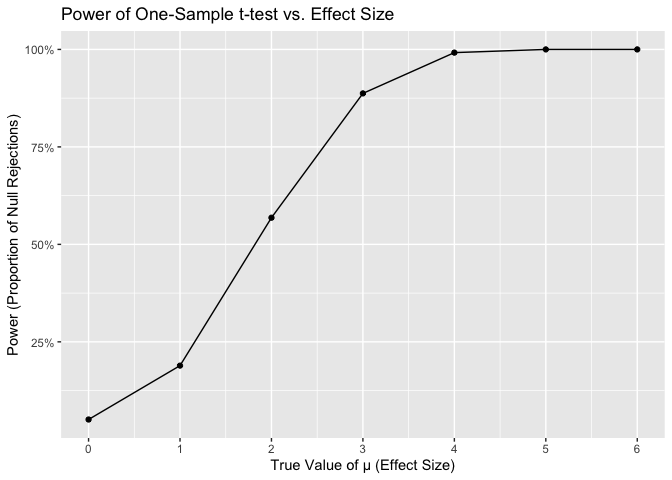
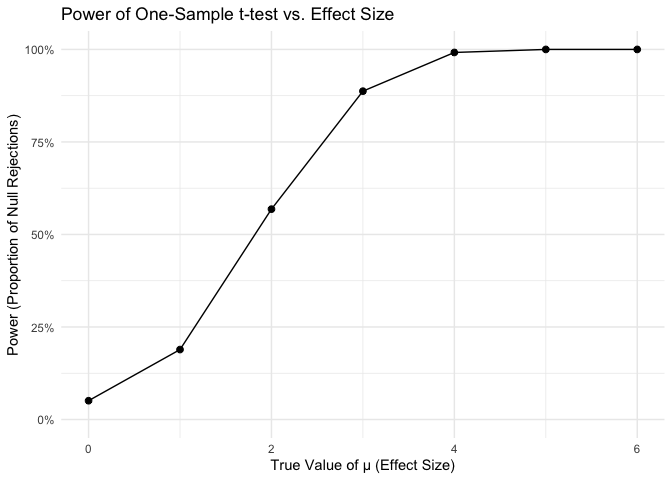
answered all questions and made changes to problem2 question1

diff --git a/p8105_hw5_lg3450.md b/p8105_hw5_lg3450.md
@@ -28,8 +28,7 @@ check_birthday = function(n) {
   birthdays = sample(1:365, size = n, replace = TRUE)
   #logic: if length < n, duplication appears
   repeated_bthd = length(unique(birthdays)) < n
-  repeated_bthd
-}
+  repeated_bthd}
 ```
 
 - Q1.2: Next, run this function 10000 times for each group size between
@@ -94,89 +93,57 @@ rapidly converges toward certainty, reaching 97% by a group size of 50.
 
 # Problem2
 
-**When designing an experiment or analysis, a common question is whether
-it is likely that a true effect will be detected – put differently,
-whether a false null hypothesis will be rejected. The probability that a
-false null hypothesis is rejected is referred to as power, and it
-depends on several factors, including: the sample size; the effect size;
-and the error variance. In this problem, you will conduct a simulation
-to explore power in a one-sample t-test.**
-
-First set the following design elements: Fix n = 30, fix sigma = 5. Set
-$\mu\ = 0.Generate 5000 datasets from the model X∼Normal[$, sigma\].
-
-For each dataset, save \$^ and the p-value arising from a test of H:
-\$ = 0 using alpha = 0.05. Hint: to obtain the estimate aand p-value,
-using broom::tidat to clean the output of t.test.
-
-Repeat the above for \$ = {1,2,3,4,5,6}, and complete the following:
-
 - Q2.1: Make a plot showing the proportion of times the null was
   rejected (the power of the test) on the y axis and the true value of
-  \$ on the x axis. Describe the association between effect size and
+  mu on the x axis. Describe the association between effect size and
   power.
 
 ``` r
 set.seed(1)
 
-run_ttest_sim = function(n_val, mu_val, sigma_val) {
-  sim_data = rnorm(n = n_val, mean = mu_val, sd = sigma_val)
-  tidy_result = broom::tidy(t.test(sim_data, mu = 0))
-  tibble(
-    mu_hat = tidy_result$estimate,
-    p_value = tidy_result$p.value)
-}
-
+n = 30
+sigma = 5
+mu_values = 0:6
 n_sims = 5000
-n_val = 30
-sigma_val = 5
+alpha = 0.05
 
-power_results =
-  expand_grid(
-    true_mu = 0:6, 
-    iter = 1:n_sims) |>
-  mutate(
-    results = map(true_mu, 
-                  \(mu) run_ttest_sim(n_val = n_val, 
-                                      mu_val = mu, 
-                                      sigma_val = sigma_val))) |>
-  unnest(results) |>
-  group_by(true_mu) |>
-  summarize(
-    power = mean(p_value < 0.05))
+run_one = function(mu) {
+ x = rnorm(n, mean = mu, sd = sigma)
+ t_out = t.test(x, mu = 0) |> tidy()
+ tibble(
+  true_mu = mu,
+  mu_hat = as.numeric(t_out$estimate),
+  p_value = t_out$p.value)}
+
+#run all simulations for mu = 0,1,2,3,4,5,6
+sim_results =
+ expand_grid(true_mu = mu_values, iter = 1:n_sims) |>
+ mutate(res = map(true_mu, run_one)) |>
+ select(res) |>
+ unnest(res) |>
+ mutate(reject = p_value < alpha)
+
+power_df =
+ sim_results |>
+ group_by(true_mu) |>
+ summarize(power = mean(reject))
 
 power_plot =
-  power_results |>
-  ggplot(aes(x = true_mu, y = power)) +
-  geom_point() +
-  geom_path() + 
-  labs(
-    title = "Power of One-Sample t-test vs. Effect Size",
-    x = "True Value of μ (Effect Size)",
-    y = "Power (Proportion of Null Rejections)"
-  ) +
-  scale_y_continuous(labels = percent) +
-  scale_x_continuous(breaks = 0:6) 
+ power_df |>
+ ggplot(aes(x = true_mu, y = power)) +
+ geom_point(size = 2) +
+ geom_line() +
+ scale_y_continuous(labels = percent, limits = c(0, 1)) +
+ labs(
+  title = "Power of One-Sample t-test vs. Effect Size",
+  x = "True Value of μ (Effect Size)",
+  y = "Power (Proportion of Null Rejections)") +
+ theme_minimal()
 
 power_plot
 ```
 
 ![](p8105_hw5_lg3450_files/figure-gfm/unnamed-chunk-5-1.png)<!-- -->
-
-``` r
-power_results
-```
-
-    ## # A tibble: 7 × 2
-    ##   true_mu  power
-    ##     <int>  <dbl>
-    ## 1       0 0.0508
-    ## 2       1 0.189 
-    ## 3       2 0.568 
-    ## 4       3 0.887 
-    ## 5       4 0.992 
-    ## 6       5 1     
-    ## 7       6 1
 
 Based on the plot, the association between and power is strong,
 positive, and non-linear. When the effect size is 0 (namely the null
@@ -186,8 +153,57 @@ the effect) rises rapidly. The power is low for a small effect size, but
 approaches 100% for large effect sizes. In short, the larger the true
 effect, the more likely the test is to detect it.
 
-- Q2.2: Make a plot showing the average estimate of \$^ on the y axis
-  and the true value of \$ on the x axis.
+- Q2.2: Make a plot showing the average estimate of mu on the y axis and
+  the true value of mu on the x axis. Make a second plot (or overlay on
+  the first) the average estimate of mu only in samples for which the
+  null was rejected on the y axis and the true value of mu on the x
+  axis. Is the sample average of mu across tests for which the null is
+  rejected approximately equal to the true value of mu? Why or why not?
+
+``` r
+est_df =
+ sim_results |>
+ group_by(true_mu) |>
+ summarize(
+  avg_all   = mean(mu_hat),
+  avg_rejected = mean(mu_hat[reject], na.rm = TRUE)) |>
+ pivot_longer(
+  cols = c(avg_all, avg_rejected),
+  names_to = "type",
+  values_to = "avg_mu_hat")
+
+estimate_plot =
+ est_df |>
+ ggplot(aes(x = true_mu, y = avg_mu_hat, color = type)) +
+ geom_point(size = 2) +
+ geom_line() +
+ geom_abline(intercept = 0, slope = 1, linetype = "dashed") +
+ scale_color_discrete(
+  labels = c(
+   avg_all = "Average (All Samples)",
+   avg_rejected = "Average (Rejected Only)")) +
+ labs(
+  title = "Average μ̂ vs True μ",
+  x = "True μ",
+  y = "Average μ̂",
+  color = "Estimate Type") +
+ theme_minimal()
+
+estimate_plot
+```
+
+![](p8105_hw5_lg3450_files/figure-gfm/unnamed-chunk-6-1.png)<!-- -->
+
+No. The sample average of $\hat{\mu}$ among tests that reject the null
+is not equal to the true value of $\mu$ and it is consistently biased
+upward.
+
+This happens because of selection bias. When we keep only “significant”
+results (p \< 0.05), we disproportionately include simulations where
+$\hat{\mu}$ happened to be larger than the truth (far from 0), and
+exclude those closer to 0 (often non-significant). As a result,
+underestimates are removed while overestimates remain, causing the
+average of the rejected samples to be inflated.
 
 # Problem3
 
@@ -285,8 +301,6 @@ print(final_baltimore_estimates)
     ##                 <dbl>    <dbl>     <dbl>
     ## 1               0.646    0.628     0.663
 
-# Undone
-
 - Q3.3: Now run prop.test for each of the cities in your dataset, and
   extract both the proportion of unsolved homicides and the confidence
   interval for each. Do this within a “tidy” pipeline, making use of
@@ -305,6 +319,8 @@ final_estimates =
   unnest(tidy_results) |>
   select(
     city_state,
+    total_homicides,
+    unsolved_homicides,
     estimate_proportion = estimate,
     conf_low = conf.low,
     conf_high = conf.high
@@ -314,22 +330,55 @@ final_estimates =
 print(final_estimates)
 ```
 
-    ## # A tibble: 51 × 4
-    ##    city_state         estimate_proportion conf_low conf_high
-    ##    <chr>                            <dbl>    <dbl>     <dbl>
-    ##  1 Chicago, IL                      0.736    0.724     0.747
-    ##  2 New Orleans, LA                  0.649    0.623     0.673
-    ##  3 Baltimore, MD                    0.646    0.628     0.663
-    ##  4 San Bernardino, CA               0.618    0.558     0.675
-    ##  5 Buffalo, NY                      0.612    0.569     0.654
-    ##  6 Miami, FL                        0.605    0.569     0.640
-    ##  7 Stockton, CA                     0.599    0.552     0.645
-    ##  8 Detroit, MI                      0.588    0.569     0.608
-    ##  9 Phoenix, AZ                      0.551    0.518     0.584
-    ## 10 Denver, CO                       0.542    0.485     0.598
+    ## # A tibble: 51 × 6
+    ##    city_state    total_homicides unsolved_homicides estimate_proportion conf_low
+    ##    <chr>                   <int>              <int>               <dbl>    <dbl>
+    ##  1 Chicago, IL              5535               4073               0.736    0.724
+    ##  2 New Orleans,…            1434                930               0.649    0.623
+    ##  3 Baltimore, MD            2827               1825               0.646    0.628
+    ##  4 San Bernardi…             275                170               0.618    0.558
+    ##  5 Buffalo, NY               521                319               0.612    0.569
+    ##  6 Miami, FL                 744                450               0.605    0.569
+    ##  7 Stockton, CA              444                266               0.599    0.552
+    ##  8 Detroit, MI              2519               1482               0.588    0.569
+    ##  9 Phoenix, AZ               914                504               0.551    0.518
+    ## 10 Denver, CO                312                169               0.542    0.485
     ## # ℹ 41 more rows
+    ## # ℹ 1 more variable: conf_high <dbl>
 
 - Q3.4: Create a plot that shows the estimates and CIs for each city –
   check out geom_errorbar for a way to add error bars based on the upper
   and lower limits. Organize cities according to the proportion of
   unsolved homicides.
+
+``` r
+homicide_ci_plot =
+  final_estimates |>
+  ggplot(aes(x = estimate_proportion, 
+             y = fct_reorder(city_state, estimate_proportion))) +
+  geom_errorbar(
+    aes(xmin = conf_low, xmax = conf_high),
+    width = 0.2, 
+    color = "darkgrey", 
+    alpha = 0.8) +
+  geom_point(
+    aes(size = total_homicides), 
+    color = "darkblue", 
+    alpha = 0.6) +
+  scale_x_continuous(labels = percent_format(accuracy = 1)) +
+  labs(
+    title = "Unsolved Homicide Rate by City",
+    x = "Estimated Proportion of Unsolved Homicides",
+    y = "City",
+    size = "Total Homicides") +
+  theme_minimal() +
+  theme(
+    axis.text.y = element_text(size = 8),
+    panel.grid.major.y = element_blank())
+
+ggsave("homicide_city_CIs_plot.png", homicide_ci_plot, width = 45, height = 45, dpi = 300)
+
+print(homicide_ci_plot)
+```
+
+![](p8105_hw5_lg3450_files/figure-gfm/unnamed-chunk-11-1.png)<!-- -->
